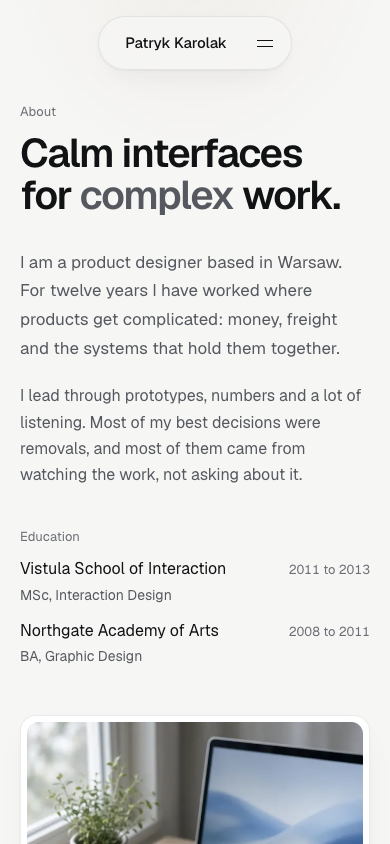
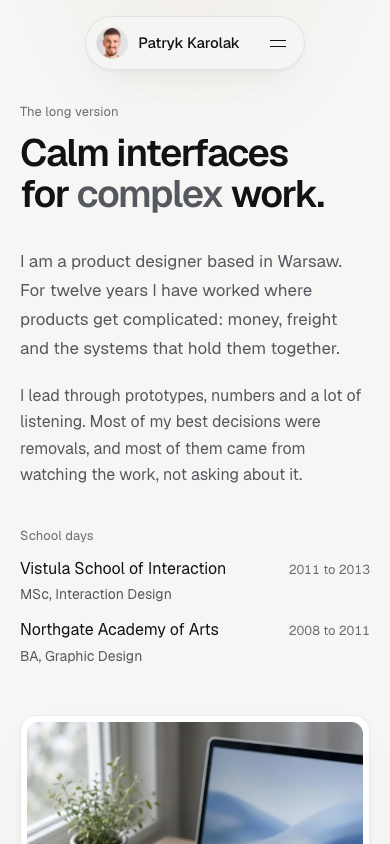
docs(ia): verify the clear IA and card nav, update design and content docs

diff --git a/components/blocks/WorkTimeline.tsx b/components/blocks/WorkTimeline.tsx
@@ -124,7 +124,7 @@ export function WorkTimeline({
       <div className="grid gap-8 md:gap-6">
         {years.map((year) => (
           <div key={year} className="grid gap-3 md:grid-cols-[112px_minmax(0,1fr)] md:gap-6">
-            <Rise as="h3" className="type-h3 pt-1 text-ink-3 tabular-nums md:pt-4">
+            <Rise as={header ? "h3" : "h2"} className="type-h3 pt-1 text-ink-3 tabular-nums md:pt-4">
               {year}
             </Rise>
             <ul className="grid gap-3">

diff --git a/docs/content-guide.md b/docs/content-guide.md
@@ -4,10 +4,10 @@ Everything a visitor reads lives in `content/`. The build validates it against [
 
 ## Files
 
-- `content/site.ts`: name, the content of every block (hero, hand, statement, work intro, showcase (side projects), teaching, writing, testimonials, letter, About story, education, journey, values, outside of work), links, contact copy, footnote.
+- `content/site.ts`: name, the content of every block (hero, hand, the five chapters, testimonials, letter, contact form, About story, education, journey, values, resume), links, contact copy, footnote.
 - `content/kit.ts`: fixtures for `/kit`, the live content plus the blocks the site leaves empty. Only `/kit` reads it.
 - `content/projects/<slug>.ts`: one file per case.
-- `content/projects/index.ts`: the order. The work timeline groups cases by `year`, newest first.
+- `content/projects/index.ts`: the order. The first `work.featured` cases lead on home; the work timeline groups them by `year`, newest first.
 
 Wrap one word of a heading in `*asterisks*` to give it the single emphasis (for example `"I design the *systems* product teams build on."`). Use `\u00a0` (a non-breaking space) to keep short phrases together, like `0\u00a0to\u00a01`.
 
@@ -21,17 +21,20 @@ Every block is optional in practice: leave its field out, or its `items` empty, 
 | `avatar` | optional | A 5:7 portrait photo (at least 424 × 594px) in `public/about/`, matching the cards, with real `alt` text. Shown in the nav and, on wide screens, beside the intro as the "P of hearts" face card that the hand is dealt from, unless intro rows bring their own `photo`. `cutout`: optional, the same shot as a transparent PNG with the background removed (also on a row's `photo`). The face card then shows the cut-out standing on its bottom edge, filling the card on its suit's wash; the nav keeps `src`. `face`: optional, a square close-up of the face (at least 128px) used for the small nav avatar instead of `src`. On a Mac, `VNGenerateForegroundInstanceMaskRequest` in Apple's Vision framework makes a clean one. |
 | `handNote` | 8 words, optional | The handwritten caption under the hand, with a doodle arrow (ADR 0014). |
 | `deck` | optional: `joker`, `back`, each `{ src, srcDark }` | Decorative card art for the hand ([ADR 0018](decisions/0018-plain-faces-fileteado-accents.md)). The joker is a small emblem as a transparent PNG (about 3:2), the back a full card. Leave it out for plain printed cards. |
-| `hand` | up to 5 cards, title 3, text 8 words | Each has a `suit` (`heart`, `spade`, `diamond`, `club`, `joker`) and a `target` (`about`, `work`, `showcase`, `teaching`, `outside`, `writing`, `contact`). The target block's heading wears the same suit. |
-| `statement` | 1 to 2 lines of 8 words, text 32 | The second line renders in Ink 2. |
-| `showcase` | up to 6 items, text 14, detail 60 | Cards that open a sheet. `image` is optional; without one the cover is a card face with its suit pip. Images are public. |
-| `teaching` | up to 3, text 30, 4 topics of 4 words | Place, role, years, what you taught. |
-| `writing` | up to 6, title 12 | `date` as `YYYY-MM` or `YYYY-MM-DD`, `href` a full URL. |
-| `testimonials` | up to 4, quote 45 words | Real people only on a real site. |
-| `letter` | 1 to 3 paragraphs of 34 words | Closes Home and carries the contact actions. |
-| `about.story` | 1 to 3 paragraphs of 70 words | The first reads as the lede. |
-| `journey.roles` | up to 8, summary 18, 2 points of 16 | Omit `to` while the role is current. `cases` link up to 2 case slugs. |
-| `values` | up to 4, text 30 | `evidence` is a case slug. |
-| `outside` | up to 3, text 40 | Life outside work, briefly. |
+| `hand` | up to 5 cards, title 3, text 8 words | The home table of contents, one card per chapter ([ADR 0031](decisions/0031-chapters-and-names.md)). Each has a `suit` (`heart`, `spade`, `diamond`, `club`, `joker`), a `target` (`about`, `work`, `showcase`, `teaching`, `outside`) and an `href` that is the chapter's anchor: `#short-version`, `#big-ones`, `#side-quests`, `#office-hours`, `#off-the-clock`. The chapter's heading wears the card as its emblem, and a picked card flies there. |
+| `statement` | title 5, 1 to 2 lines of 8 words, text 32 | "The short version". The second line renders in Ink 2. `cta` links to About ("The long version"). |
+| `work` | title 5, note 10, more 4 | "The big ones". `featured` (default 3) cases show on home, in the order of `content/projects/index.ts`; with more, `more` links to `/work`. |
+| `showcase` | up to 6 items, text 14, detail 60, more 4 | "Side quests". Cards that open a sheet. `featured` (default 3) show; the `more` button reveals the rest in place. `image` is optional; without one the cover is a card face with its suit pip. Images are public. |
+| `teaching` | up to 3, text 30, 4 topics of 4 words | "Office hours". Place, role, years, what you taught. |
+| `outside` | up to 3, text 40 | "Off the clock". Life outside work, briefly. |
+| `testimonials` | up to 4, quote 45 words | "Word of mouth". Real people only on a real site. |
+| `letter` | 1 to 3 paragraphs of 34 words | Carries "Book a call", copy email and LinkedIn. |
+| `contactForm` | title 5, note 24, submit 3, sent 10 | "Drop me a line", after the letter. `sent` is the success toast. Needs `RESEND_API_KEY` and `CONTACT_TO` ([operations](operations.md)). |
+| `about.title`, `about.story` | title 4; 1 to 3 paragraphs of 70 words | The page label ("The long version"); the first paragraph reads as the lede. |
+| `educationTitle` | 4 words | The education heading ("School days"). |
+| `resume` | optional `{ src, label 4 }` | A PDF in `public/`, e.g. `/patryk-karolak-cv.pdf`. Shows a download button ("Grab the CV") on About. |
+| `journey.roles` | up to 8, summary 18, 2 points of 16 | "Where I've been". Omit `to` while the role is current. `cases` link up to 2 case slugs. |
+| `values` | up to 4, text 30 | "How I work". `evidence` is a case slug. |
 
 ## Writing a case
 

diff --git a/DESIGN.md b/DESIGN.md
@@ -9,11 +9,11 @@ Subtle dark, calm, crisp. Dark is the default; light stays on the toggle ([ADR 0
 - **Color, dark:** canvas `#0F1012`, card `#16181B` (raised `#1B1D21`), hairline `rgba(255,255,255,.07)`, Ink `#ECEDEE`, Ink 2 `#A6A9AF`, Ink 3 `#858990`, accent pale amber `#E8B270` on `#1A1206` accent ink.
 - **Color, light:** canvas `#F6F6F5`, card `#FFFFFF`, hairline `rgba(17,18,20,.08)`, Ink `#111214`, Ink 2 `#55585E`, Ink 3 `#6A6D73`, accent `#9A5B12` on white accent ink.
 - **One accent.** Amber marks the primary action, links on hover, the active dot and focus. Never on large fills beyond buttons.
-- **Playing cards (ADR 0012, 0013, 0015, 0018).** Plain printed faces: black paper in dark mode, cool off-white in light (`card-face`), one pip size, corner values close to the edge. Two inks as on any deck: `card-red` for hearts and diamonds, `card-ink` for spades and clubs, titles and blurbs. Fileteado is a quiet nod only: a small bandoneón emblem on the joker and a tango medallion with light corner filete on the back (`site.deck`). Only on the card hand, image-less showcase covers and the small suit glyph beside a section heading (black suits use `ink` there). The hero photo is a face card too: a P of hearts that the hand is stacked under and dealt from, and with a photo per time of day it becomes a small deck that shuffles with the day switch, one suit per card (ADR 0026, 0027). Every card prints on a soft wash of its suit's colour (`card-tint`): hearts rose, diamonds amber, spades blue, clubs green, the joker violet (ADR 0028).
+- **Playing cards (ADR 0012, 0013, 0015, 0018).** Plain printed faces: black paper in dark mode, cool off-white in light (`card-face`), one pip size, corner values close to the edge. Two inks as on any deck: `card-red` for hearts and diamonds, `card-ink` for spades and clubs, titles and blurbs. Fileteado is a quiet nod only: a small bandoneón emblem on the joker and a tango medallion with light corner filete on the back (`site.deck`). Only on the card hand, the chapter emblems (a 40 × 56px card beside each chapter heading, tilted 5°), the docked mini-hand, image-less showcase covers and the swipe-row suit markers (black suits use `ink` on the markers). The hero photo is a face card too: a P of hearts that the hand is stacked under and dealt from, and with a photo per time of day it becomes a small deck that shuffles with the day switch, one suit per card (ADR 0026, 0027). Every card prints on a soft wash of its suit's colour (`card-tint`): hearts rose, diamonds amber, spades blue, clubs green, the joker violet (ADR 0028).
 - **Type:** Geist, plus Caveat only for `type-hand` doodle captions (ADR 0014). Display 600 `clamp(2.375rem, 4.6vw, 3.4rem)` at 1.1, tracking `-0.035em`. The hero greeting is a small lede line above it. H2 600 `clamp(1.75rem, 3vw, 2.25rem)`. H3 500 `1.125rem`. Body 400 `1rem` at 1.65. Small `0.875rem` Ink 2. Labels in sentence case, `0.8125rem`, Ink 3. No decorative text shadows: headings and card titles are clean ink (ADR 0029). Section headings and the hero headline sit over `Filete`, a 24px accent hairline (ADR 0023). Tabular numbers for dates and metrics. Banned: Inter, serif, mono, handwriting outside `type-hand`, all caps headings.
 - **Shape:** cards 16px, sheets 20px, frames 20px with a 6px inset, pills fully round, inline company pills 8px.
 - **Surfaces:** flat cards with a 1px hairline and a soft low shadow; no glass on content. The nav and sheets are near-opaque with a light blur so text stays legible over media. The only atmosphere is a faint top vignette.
-- **Motion:** quicker and calm. Rise 0.8s, 12px, 4px blur, stagger 0.06s. Press scale 0.97. Sheets on a stiff spring (380 / 36). The card hand lands as a loose stack, then deals out left to right on a softer spring (140 / 20, 0.6s hold, 0.07s between cards); the caption and arrow follow. A picked card flips and grows to fill the screen (1.1s, ease-in-out flip) with its section on the back, and folds back onto the table on close (ADR 0017). Route changes: nav stays put, a case cover morphs into its header, forward and back slide 48px. Everything collapses under reduced motion.
+- **Motion:** quicker and calm. Rise 0.8s, 12px, 4px blur, stagger 0.06s. Press scale 0.97. Sheets on a stiff spring (380 / 36). The card hand lands as a loose stack, then deals out left to right on a softer spring (140 / 20, 0.6s hold, 0.07s between cards); the caption and arrow follow. A picked card flies along a short arc to its chapter while the page scrolls there, both on one ease-in-out curve (`motion.fly`, 0.95s, 48px rise), shrinks onto the chapter's emblem and settles with a small spring; the hash updates and focus moves to the heading (ADR 0032). Once the hero is out of view, a `surface-strong` pill docks at the bottom centre with the hand in miniature (28 × 40px cards, 44px targets): the current chapter is raised and named, hovering names them all, and it steps aside over the letter, the form and the footer. Route changes: nav stays put, a case cover morphs into its header, forward and back slide 48px. Everything collapses under reduced motion.
 - **Checklist before calling Dusk UI done:** both modes pass axe; no text below 4.5:1 (Ink 3 included, on cards too); the nav, command menu and sheets work by keyboard alone; `/kit` shows every block and state; `pnpm shots` matches round 8 in spacing and hierarchy.
 
 ---

diff --git a/docs/architecture.md b/docs/architecture.md
@@ -15,7 +15,8 @@ Next.js 16 (App Router, Turbopack), React 19, Tailwind CSS v4, Motion, TypeScrip
 
 | Route | Rendering | Notes |
 | --- | --- | --- |
-| `/` | static | Blocks: intro hero, card hand, statement, core work, side projects, teaching, my world, writing, testimonials, letter. |
+| `/` | static | Blocks: intro hero, card hand, then the chapters (the short version, the big ones, side quests, office hours, off the clock), word of mouth, letter, contact form. The docked mini-hand and the card flight layer. |
+| `/work` | static | "All the big ones": every case's cover row. 404 while home shows them all. |
 | `/about` | static | Blocks: story with education, journey, values, contact. |
 | `/kit` | static, `noindex` | Every block and primitive, filled from `content/kit.ts`. Not linked and not in the sitemap. |
 | `/work/[slug]` | static (SSG) | Full case. For protected cases the proxy serves `/locked/[slug]` instead until unlocked. |
@@ -23,7 +24,7 @@ Next.js 16 (App Router, Turbopack), React 19, Tailwind CSS v4, Motion, TypeScrip
 | `/work/[slug]/opengraph-image`, `/opengraph-image` | static | Built with `next/og`, colors and font from `@theme/meta`. Public fields only. |
 | `/sitemap.xml`, `/robots.txt` | static | Robots disallows `/locked/` and `/media/protected/`. |
 
-The root layout renders `Atmosphere`, `Nav`, the page, `Footer`, the `CommandMenu` and the `Toaster` region. Each page renders its own contact block with id `contact` (Home: `LetterCard`; other pages: `Contact`), so every "Get in touch" link is `#contact`. Each page wraps its content in `PageTransition`, so links tagged `nav-forward` or `nav-back` slide, and a case cover morphs from the work list into the case header (`CoverMorph`, a shared `ViewTransition` name per slug). An inline script adds `js` to `<html>` before paint; without it, CSS shows every reveal immediately, so the site reads without JavaScript.
+The root layout renders `Atmosphere`, `Nav`, the page, `Footer`, the `CommandMenu` and the `Toaster` region. Each page renders its own contact block with id `contact` (Home: `ContactForm`, or `LetterCard` without a form; other pages: `Contact`), so every "Say hi" link is `#contact`. The form posts to the `sendContact` Server Action in `app/actions/contact.ts`. Each page wraps its content in `PageTransition`, so links tagged `nav-forward` or `nav-back` slide, and a case cover morphs from the work list into the case header (`CoverMorph`, a shared `ViewTransition` name per slug). An inline script adds `js` to `<html>` before paint; without it, CSS shows every reveal immediately, so the site reads without JavaScript.
 
 ## Gating flow
 
@@ -40,7 +41,7 @@ flowchart LR
 
 ## Components
 
-- `components/blocks/`: the block library ([ADR 0010](decisions/0010-block-library.md)). One block per file, each takes its content slice and returns `null` when empty. `HomeBlocks` and `AboutBlocks` are the page compositions; `lib/blocks.ts` hides cards whose target is empty and gives each block its card's suit. `CardHand` fans the section cards on wide screens ([ADR 0012](decisions/0012-card-hand-and-suits.md)), drawn as real playing cards ([ADR 0013](decisions/0013-real-playing-cards.md)).
+- `components/blocks/`: the block library ([ADR 0010](decisions/0010-block-library.md)). One block per file, each takes its content slice and returns `null` when empty. `HomeBlocks` and `AboutBlocks` are the page compositions; `lib/blocks.ts` hides cards whose target is empty and gives each block its card's suit. `CardHand` fans the chapter cards on wide screens, and a picked card flies to its chapter's emblem (`flight.tsx`, `ChapterHeader.tsx`, [ADR 0032](decisions/0032-card-led-page-nav.md)) ([ADR 0012](decisions/0012-card-hand-and-suits.md)), drawn as real playing cards ([ADR 0013](decisions/0013-real-playing-cards.md)).
 - `components/ui/`: primitives. `SmartLink` (anchor, external or app route with a transition type), `ArrowLink`, `Modal` (native `<dialog>`, sheet or palette placement, optional `layoutId` morph), `Panel` and `Frame` (surfaces, take a `rise` index), `Button` (`PrimaryLink`, `PrimaryButton`, both with a `compact` size; the only primary style), `Chip` (static status only), `Icon`, `MetricsPanel`, `Emphasis` (`*word*` becomes the heading's one emphasised word).
 - `components/motion/Rise.tsx`: the entry reveal, timings from `@theme/motion`. Clears its filter on completion so it never becomes a backdrop root.
 - `components/media/`: `Asset` renders any content asset by `kind`, `Picture` (light and dark sources, unoptimized for protected media), `Compare`, `Video`.

diff --git a/docs/plan.md b/docs/plan.md
@@ -155,9 +155,10 @@ Each placeholder case shows a different kind of senior signal:
 ## Page compositions
 
 > **Superseded for Home and About (round 8, [ADR 0010](decisions/0010-block-library.md)).** Home and About are now composed from the block library in `components/blocks/`:
-> - **Home:** IntroHero, CardHand (Hi!, Core work, Side projects, Teaching, My world; [ADR 0012](decisions/0012-card-hand-and-suits.md)), Statement, WorkTimeline (Core work), Showcase (Side projects), Teaching, OutsideWork (My world), WritingList, Testimonials, then LetterCard (id `contact`), or Contact when there is no letter.
+> - **Home (since the "Clear IA and card nav" plan, [ADR 0031](decisions/0031-chapters-and-names.md), [ADR 0032](decisions/0032-card-led-page-nav.md)):** IntroHero, CardHand as the table of contents, then five chapters, one per card: Statement ("The short version"), WorkTimeline ("The big ones", 3 featured, the rest on `/work`), Showcase ("Side quests"), Teaching ("Office hours"), OutsideWork ("Off the clock"). Then Testimonials ("Word of mouth"), LetterCard (id `letter`) and ContactForm ("Drop me a line", id `contact`, [ADR 0033](decisions/0033-contact-form.md)). A picked card flies to its chapter; HandDock keeps the hand docked at the bottom while reading. WritingList and the card zoom overlay are gone.
+> - **`/work`:** "All the big ones", every case, only while home cannot show them all.
 > - **About** no longer carries OutsideWork; it moved to Home as My world.
-> - **About:** StoryHeader with Education, Journey, Values, OutsideWork, Contact.
+> - **About ("The long version"):** StoryHeader with the optional CV button and Education ("School days"), Journey ("Where I've been"), Values ("How I work"), Contact.
 > - Every block renders nothing when its content is empty; `/kit` shows all of them filled from `content/kit.ts`. App primitives: Modal (sheet and palette), Toaster, CommandMenu (Cmd K), `press`, and view transitions between routes with a cover morph into the case header.
 > - The case, locked and 404 compositions below still apply. The original Home and About specs are kept for history.
 

diff --git a/docs/progress.md b/docs/progress.md
@@ -34,6 +34,13 @@ Round 8 (block library and Dusk):
 
 ---
 
+## 2026-10-01: checks and docs for the clear IA (`verify-docs`)
+
+- **Agent:** Cursor agent (Claude)
+- **Done:** Last todo of the plan "Clear IA and card nav". Lint, typecheck and `theme:check` pass under Dusk and Blueprint, `docs:check` passes and the production build is green. Axe (WCAG 2.2 AA plus best practice) is clean on `/`, `/about` and `/work` at 1440 and 390 in light and dark, after making the `/work` year headings `h2` under its `h1`. Playwright flows: under reduced motion a card jumps straight to `#office-hours`, with no flight. On a phone the second card in the swipe row flies to "The big ones", the dock names it, and the back button returns to the page without a hash. The flight, the dock and the form were checked in their own todos. `pnpm shots` re-run. Updated `DESIGN.md` (playing-card uses, motion), `docs/content-guide.md` (the chapter fields, `contactForm`, `resume`), `docs/plan.md` (Home, `/work` and About compositions) and `docs/architecture.md` (routes, contact anchor). ADR 0017 is marked superseded by 0032.
+- **Owner to do:** set up Resend ([operations](operations.md)), add a CV PDF and `site.resume` if wanted, and decide which three cases lead on home (`content/projects/index.ts`).
+- **Next:** `qa` and `docs-final` from the checklist.
+
 ## 2026-10-01: "Drop me a line" (`contact-form`)
 
 - **Agent:** Cursor agent (Claude)

diff --git a/docs/decisions/0032-card-led-page-nav.md b/docs/decisions/0032-card-led-page-nav.md
@@ -1,6 +1,6 @@
 # 0032: A picked card flies to its chapter; the hand is the table of contents
 
-- **Status:** Accepted. Supersedes the card zoom overlay from ADR 0027.
+- **Status:** Accepted. Supersedes the card zoom overlay ([ADR 0017](0017-card-pick-zoom.md)).
 - **Date:** 2026-10-01
 - **Todo:** `card-flight`, `hand-dock` (plan "Clear IA and card nav")
 

diff --git a/docs/decisions/0017-card-pick-zoom.md b/docs/decisions/0017-card-pick-zoom.md
@@ -1,6 +1,6 @@
 # 0017: Picking a card flips it open to its section
 
-- **Status:** Accepted
+- **Status:** Superseded by [ADR 0032](0032-card-led-page-nav.md)
 - **Date:** 2026-09-30
 - **Todo:** card hand follow-up (owner request)
 
